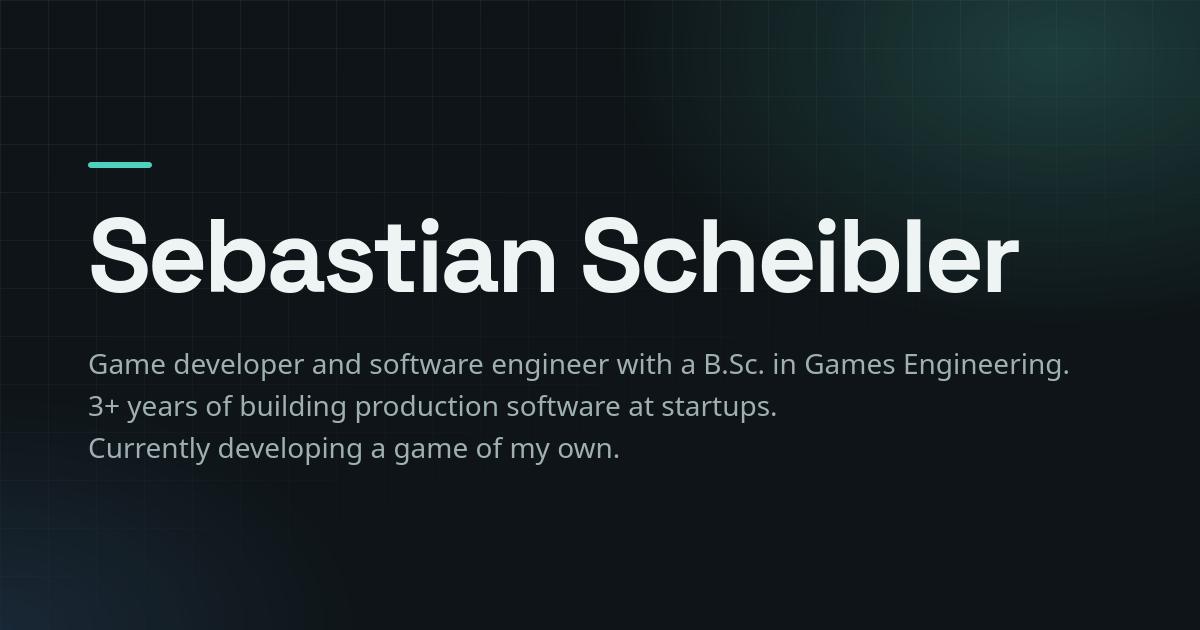
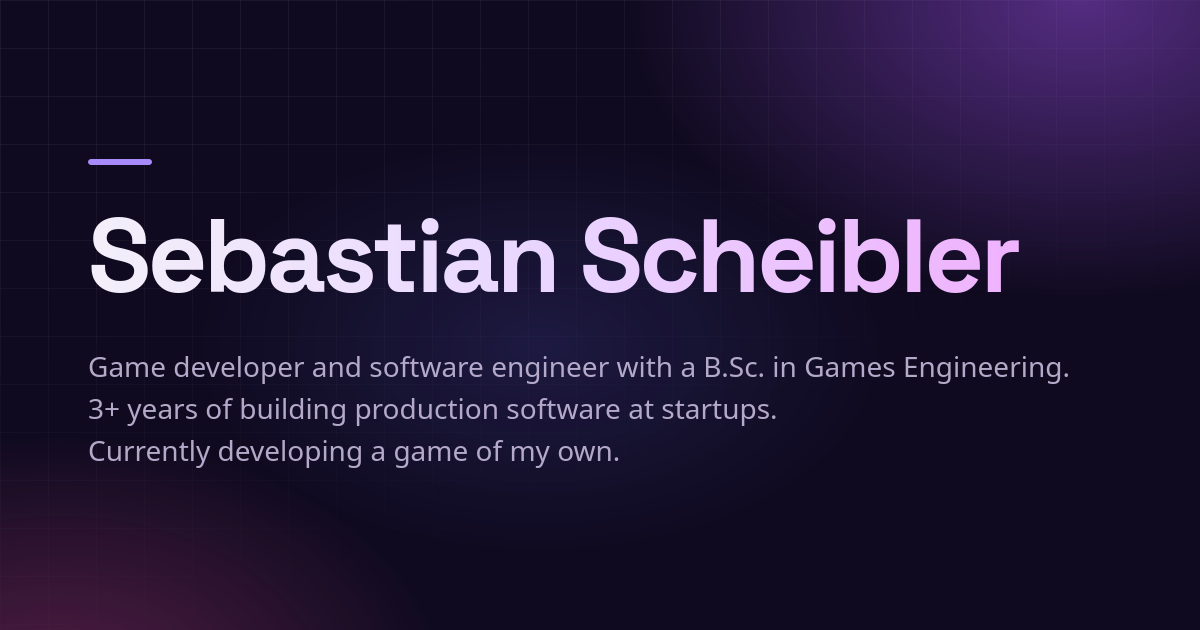
Switch to a violet colour scheme, add graduation year
Violet and pink glows in the header, gradient name, violet accent and
buttons, violet-tinted neutrals. Favicon, link preview image and the 404
page follow the new palette. Button colours now live in two variables.

diff --git a/style.css b/style.css
@@ -33,20 +33,22 @@
 /* ---------- tokens ---------- */
 
 :root {
-  --bg:          #f5f7f7;
+  --bg:          #f7f5fb;
   --surface:     #ffffff;
-  --surface-2:   #edf1f1;
-  --text:        #141a1d;
-  --muted:       #5a666c;
-  --line:        #dce2e3;
-  --accent:      #0b7266;
-  --accent-bg:   #dff2ee;
-  --shadow:      0 10px 30px -12px rgb(16 40 40 / 0.22);
+  --surface-2:   #f0ecf7;
+  --text:        #18141f;
+  --muted:       #615a6e;
+  --line:        #e3dcee;
+  --accent:      #6d28d9;
+  --accent-bg:   #efe7fd;
+  --shadow:      0 10px 30px -12px rgb(60 20 110 / 0.25);
 
-  --hero-bg:     #0e1417;
-  --hero-text:   #eef4f4;
-  --hero-muted:  #9fb0b4;
-  --hero-accent: #4fd1bf;
+  --hero-bg:     #0f0a1f;
+  --hero-text:   #f3effa;
+  --hero-muted:  #b4a9c9;
+  --hero-accent: #a78bfa;
+  --button:      #7c3aed;
+  --button-hover:#8b5cf6;
   --hero-line:   rgb(255 255 255 / 0.14);
 
   --font-body:    system-ui, -apple-system, "Segoe UI", Roboto, Helvetica, Arial, sans-serif;
@@ -57,16 +59,16 @@
 
 @media (prefers-color-scheme: dark) {
   :root {
-    --bg:        #0c1012;
-    --surface:   #141a1d;
-    --surface-2: #1b2327;
-    --text:      #e5ecee;
-    --muted:     #93a1a7;
-    --line:      #263035;
-    --accent:    #4fd1bf;
-    --accent-bg: #10302c;
+    --bg:        #0d0a14;
+    --surface:   #161220;
+    --surface-2: #1e1929;
+    --text:      #ece7f5;
+    --muted:     #a49bb6;
+    --line:      #2b2439;
+    --accent:    #b197fc;
+    --accent-bg: #2a1f45;
     --shadow:    0 14px 34px -14px rgb(0 0 0 / 0.7);
-    --hero-bg:   #080c0e;
+    --hero-bg:   #0a0714;
   }
 }
 
@@ -117,8 +119,9 @@ a:focus-visible { outline: 2px solid var(--accent); outline-offset: 3px; border-
   position: absolute;
   inset: 0;
   background:
-    radial-gradient(38rem 24rem at 85% 10%, rgb(79 209 191 / 0.20), transparent 70%),
-    radial-gradient(30rem 20rem at 0% 100%, rgb(79 140 209 / 0.14), transparent 70%);
+    radial-gradient(42rem 28rem at 88% 0%, rgb(168 85 247 / 0.45), transparent 65%),
+    radial-gradient(36rem 24rem at 8% 110%, rgb(236 72 153 / 0.30), transparent 65%),
+    radial-gradient(30rem 18rem at 45% 55%, rgb(99 102 241 / 0.16), transparent 70%);
   pointer-events: none;
 }
 
@@ -142,6 +145,10 @@ a:focus-visible { outline: 2px solid var(--accent); outline-offset: 3px; border-
   font-weight: 700;
   line-height: 1.05;
   letter-spacing: -0.035em;
+  background: linear-gradient(90deg, #f3effa 0%, #e9d5ff 45%, #f0abfc 100%);
+  -webkit-background-clip: text;
+  background-clip: text;
+  color: transparent;
 }
 
 .tagline {
@@ -210,15 +217,15 @@ a:focus-visible { outline: 2px solid var(--accent); outline-offset: 3px; border-
 
 .email-group.split .button.copy {
   border: 0;
-  border-left: 1px solid rgb(6 36 32 / 0.3);
+  border-left: 1px solid rgb(255 255 255 / 0.35);
   border-top-left-radius: 0;
   border-bottom-left-radius: 0;
-  background: var(--hero-accent);
-  color: #062420;
+  background: var(--button);
+  color: #fff;
 }
 
 .email-group.split .button.copy:hover,
-.email-group.split .button.copy.copied { background: #6fe0d0; }
+.email-group.split .button.copy.copied { background: var(--button-hover); }
 
 /* The lift on hover would shift one half against the other. */
 .email-group.split .button:hover { transform: none; }
@@ -234,7 +241,7 @@ a:focus-visible { outline: 2px solid var(--accent); outline-offset: 3px; border-
   padding: 0.15rem 0.55rem;
   border-radius: 6px;
   background: var(--hero-accent);
-  color: #062420;
+  color: #1a0b33;
   font-size: 0.75rem;
   font-weight: 600;
   white-space: nowrap;
@@ -254,12 +261,12 @@ a:focus-visible { outline: 2px solid var(--accent); outline-offset: 3px; border-
 
 .button.primary {
   border-color: transparent;
-  background: var(--hero-accent);
-  color: #062420;
+  background: var(--button);
+  color: #fff;
   font-weight: 600;
 }
 
-.button.primary:hover { background: #6fe0d0; }
+.button.primary:hover { background: var(--button-hover); }
 
 /* ---------- tab bar ---------- */
 

diff --git a/404.html b/404.html
@@ -14,24 +14,27 @@
     display: grid;
     place-items: center;
     padding: 0 1.25rem;
-    background: #0e1417;
-    color: #eef4f4;
+    background:
+      radial-gradient(36rem 24rem at 85% 0%, rgb(168 85 247 / 0.40), transparent 65%),
+      radial-gradient(30rem 20rem at 10% 100%, rgb(236 72 153 / 0.25), transparent 65%),
+      #0f0a1f;
+    color: #f3effa;
     font: 400 1rem/1.6 system-ui, -apple-system, "Segoe UI", Roboto, sans-serif;
     text-align: center;
   }
   h1 { margin: 0; font-size: clamp(4rem, 18vw, 7rem); line-height: 1; letter-spacing: -0.04em; }
-  p { margin: 1rem 0 2rem; color: #9fb0b4; }
+  p { margin: 1rem 0 2rem; color: #b4a9c9; }
   a {
     display: inline-block;
     padding: 0.6rem 1.15rem;
     border-radius: 10px;
-    background: #4fd1bf;
-    color: #062420;
+    background: #7c3aed;
+    color: #fff;
     font-weight: 600;
     text-decoration: none;
   }
-  a:hover { background: #6fe0d0; }
-  a:focus-visible { outline: 2px solid #eef4f4; outline-offset: 3px; }
+  a:hover { background: #8b5cf6; }
+  a:focus-visible { outline: 2px solid #f3effa; outline-offset: 3px; }
 </style>
 </head>
 <body>

diff --git a/index.html b/index.html
@@ -9,7 +9,7 @@
 <link rel="stylesheet" href="style.css">
 <link rel="icon" href="favicon.ico" sizes="any">
 <link rel="apple-touch-icon" href="apple-touch-icon.png">
-<meta name="theme-color" content="#0e1417">
+<meta name="theme-color" content="#0f0a1f">
 
 <!-- Link previews (LinkedIn, Slack, messengers). og:url and og:image must be
      absolute URLs, because those services fetch them from outside. -->
@@ -119,9 +119,7 @@
       <div class="side-card">
         <h2>Education</h2>
         <p class="side-title">B.Sc. Games Engineering</p>
-        <p class="meta">
-          Julius-Maximilians-Universität Würzburg
-        </p>
+        <p class="meta">Julius-Maximilians-Universität Würzburg · 2024</p>
       </div>
 
       <div class="side-card">
